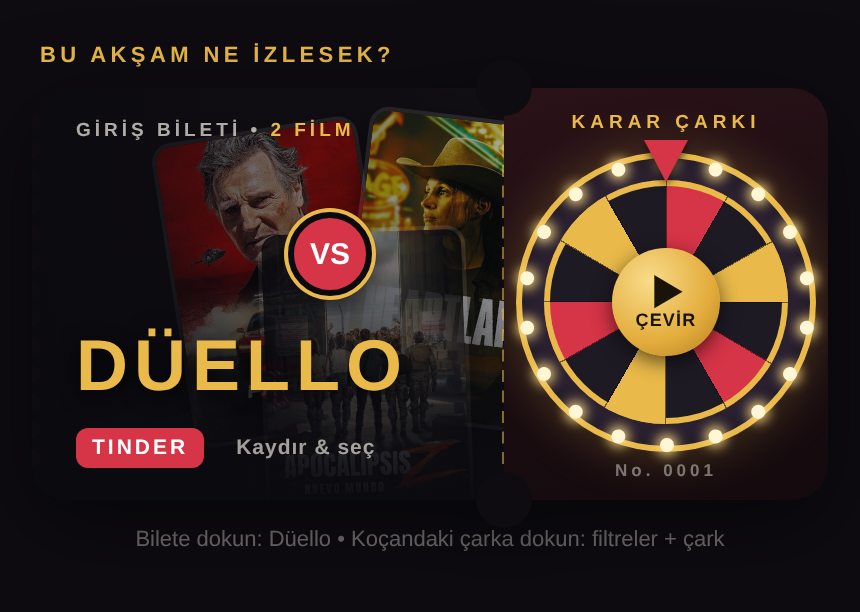
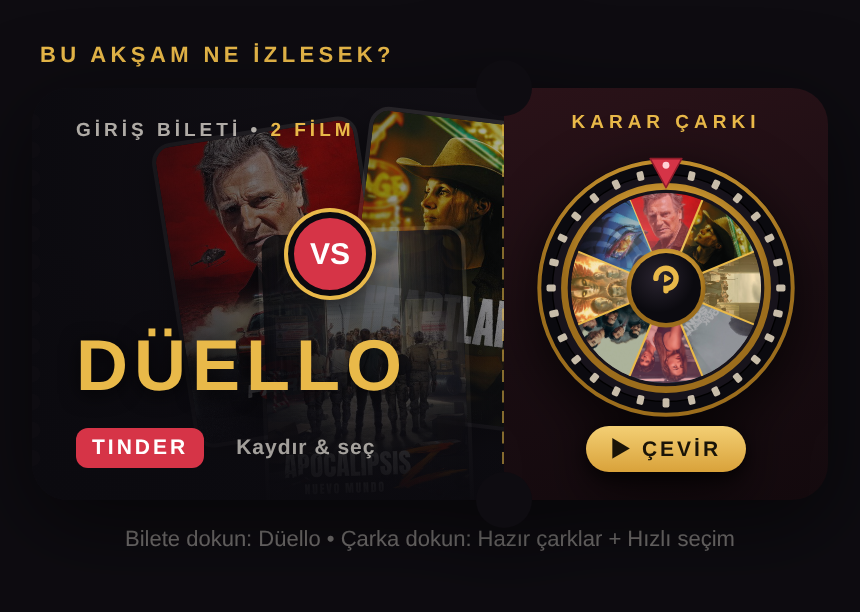
Bilet tasarımı önizlemesi v3: film şeridi halkalı afişli çark
Claude-Session: https://claude.ai/code/session_01Q1LBDkMis9fZfSetxmGZms

Changed region(s): [[0.5744, 0.2173, 0.9674, 0.7761], [0.1512, 0.8693, 0.8465, 0.9003]]

diff --git a/branding/ana-sayfa-bilet-tasarimi.html b/branding/ana-sayfa-bilet-tasarimi.html
@@ -35,6 +35,8 @@ body{width:430px;background:#0e0c11;font-family:Roboto,"Noto Sans",Arial,sans-se
  background:radial-gradient(circle at 35% 30%,#f8dc8a,#e3ac3c 60%,#b27e22);display:flex;flex-direction:column;align-items:center;justify-content:center;color:#1a1408;font-weight:900;font-size:9px;letter-spacing:.6px;box-shadow:0 3px 10px rgba(0,0,0,.6)}
 .hub b{font-size:17px;line-height:1;margin-left:2px}
 .needle{position:absolute;top:-6px;left:50%;transform:translateX(-50%);width:0;height:0;border-left:11px solid transparent;border-right:11px solid transparent;border-top:21px solid #d63447;z-index:4;filter:drop-shadow(0 2px 2px rgba(0,0,0,.7))}
+.wheelwrap2{position:absolute;left:50%;top:34px;transform:translateX(-50%);text-align:center;filter:drop-shadow(0 8px 14px rgba(0,0,0,.7))}
+.spin{margin:-10px auto 0;position:relative;display:inline-block;background:linear-gradient(180deg,#f3cf74,#d9a23a);color:#1a1408;font-weight:900;font-size:10.5px;letter-spacing:1.5px;padding:5px 12px;border-radius:999px;box-shadow:0 3px 8px rgba(0,0,0,.6)}
 .note{font-size:11px;color:rgba(245,239,230,.45);text-align:center;margin-top:14px}
 </style></head><body>
 <div class="cap">BU AKŞAM NE İZLESEK?</div>
@@ -57,15 +59,30 @@ body{width:430px;background:#0e0c11;font-family:Roboto,"Noto Sans",Arial,sans-se
   <div class="notch" style="top:-14px"></div><div class="notch" style="bottom:-14px"></div>
   <div class="stub">
     <div class="lab">KARAR ÇARKI</div>
-    <div class="wheelwrap">
-      <div class="rim"></div>
-      <div class="bulbs"><i style="transform:rotate(0deg) translateY(-71px)"></i><i style="transform:rotate(20deg) translateY(-71px)"></i><i style="transform:rotate(40deg) translateY(-71px)"></i><i style="transform:rotate(60deg) translateY(-71px)"></i><i style="transform:rotate(80deg) translateY(-71px)"></i><i style="transform:rotate(100deg) translateY(-71px)"></i><i style="transform:rotate(120deg) translateY(-71px)"></i><i style="transform:rotate(140deg) translateY(-71px)"></i><i style="transform:rotate(160deg) translateY(-71px)"></i><i style="transform:rotate(180deg) translateY(-71px)"></i><i style="transform:rotate(200deg) translateY(-71px)"></i><i style="transform:rotate(220deg) translateY(-71px)"></i><i style="transform:rotate(240deg) translateY(-71px)"></i><i style="transform:rotate(260deg) translateY(-71px)"></i><i style="transform:rotate(280deg) translateY(-71px)"></i><i style="transform:rotate(300deg) translateY(-71px)"></i><i style="transform:rotate(320deg) translateY(-71px)"></i><i style="transform:rotate(340deg) translateY(-71px)"></i></div>
-      <div class="wheel"></div>
-      <div class="needle"></div>
-      <div class="hub"><b>▶</b>ÇEVİR</div>
-    </div>
-    <div class="no">No. 0001</div>
+    <div class="wheelwrap2"><svg viewBox="0 0 200 200" width="132" height="132" xmlns="http://www.w3.org/2000/svg">
+<defs><clipPath id="w0"><path d="M100,100 L72.45,33.48 A72,72 0 0 1 127.55,33.48 Z"/></clipPath><clipPath id="w1"><path d="M100,100 L127.55,33.48 A72,72 0 0 1 166.52,72.45 Z"/></clipPath><clipPath id="w2"><path d="M100,100 L166.52,72.45 A72,72 0 0 1 166.52,127.55 Z"/></clipPath><clipPath id="w3"><path d="M100,100 L166.52,127.55 A72,72 0 0 1 127.55,166.52 Z"/></clipPath><clipPath id="w4"><path d="M100,100 L127.55,166.52 A72,72 0 0 1 72.45,166.52 Z"/></clipPath><clipPath id="w5"><path d="M100,100 L72.45,166.52 A72,72 0 0 1 33.48,127.55 Z"/></clipPath><clipPath id="w6"><path d="M100,100 L33.48,127.55 A72,72 0 0 1 33.48,72.45 Z"/></clipPath><clipPath id="w7"><path d="M100,100 L33.48,72.45 A72,72 0 0 1 72.45,33.48 Z"/></clipPath>
+<radialGradient id="bez" cx="50%" cy="40%"><stop offset="0" stop-color="#f6d98c"/><stop offset=".6" stop-color="#e3ac3c"/><stop offset="1" stop-color="#9c6d1c"/></radialGradient>
+<radialGradient id="hubg" cx="40%" cy="35%"><stop offset="0" stop-color="#2a2430"/><stop offset="1" stop-color="#0b0a0f"/></radialGradient>
+<radialGradient id="gloss" cx="35%" cy="25%" r="70%"><stop offset="0" stop-color="#fff" stop-opacity=".22"/><stop offset=".5" stop-color="#fff" stop-opacity="0"/></radialGradient>
+</defs>
+<circle cx="100" cy="100" r="98" fill="#0b0a0f"/>
+<circle cx="100" cy="100" r="96" fill="none" stroke="url(#bez)" stroke-width="3"/>
+<circle cx="100" cy="100" r="86" fill="#17131b" stroke="#000" stroke-width="1"/>
+<rect x="97.4" y="9.5" width="5.2" height="7" rx="1.4" fill="#e9dcc4" opacity=".85" transform="rotate(0.0 100 100)"/><rect x="97.4" y="9.5" width="5.2" height="7" rx="1.4" fill="#e9dcc4" opacity=".85" transform="rotate(12.857142857142858 100 100)"/><rect x="97.4" y="9.5" width="5.2" height="7" rx="1.4" fill="#e9dcc4" opacity=".85" transform="rotate(25.714285714285715 100 100)"/><rect x="97.4" y="9.5" width="5.2" height="7" rx="1.4" fill="#e9dcc4" opacity=".85" transform="rotate(38.57142857142857 100 100)"/><rect x="97.4" y="9.5" width="5.2" height="7" rx="1.4" fill="#e9dcc4" opacity=".85" transform="rotate(51.42857142857143 100 100)"/><rect x="97.4" y="9.5" width="5.2" height="7" rx="1.4" fill="#e9dcc4" opacity=".85" transform="rotate(64.28571428571429 100 100)"/><rect x="97.4" y="9.5" width="5.2" height="7" rx="1.4" fill="#e9dcc4" opacity=".85" transform="rotate(77.14285714285714 100 100)"/><rect x="97.4" y="9.5" width="5.2" height="7" rx="1.4" fill="#e9dcc4" opacity=".85" transform="rotate(90.0 100 100)"/><rect x="97.4" y="9.5" width="5.2" height="7" rx="1.4" fill="#e9dcc4" opacity=".85" transform="rotate(102.85714285714286 100 100)"/><rect x="97.4" y="9.5" width="5.2" height="7" rx="1.4" fill="#e9dcc4" opacity=".85" transform="rotate(115.71428571428571 100 100)"/><rect x="97.4" y="9.5" width="5.2" height="7" rx="1.4" fill="#e9dcc4" opacity=".85" transform="rotate(128.57142857142858 100 100)"/><rect x="97.4" y="9.5" width="5.2" height="7" rx="1.4" fill="#e9dcc4" opacity=".85" transform="rotate(141.42857142857142 100 100)"/><rect x="97.4" y="9.5" width="5.2" height="7" rx="1.4" fill="#e9dcc4" opacity=".85" transform="rotate(154.28571428571428 100 100)"/><rect x="97.4" y="9.5" width="5.2" height="7" rx="1.4" fill="#e9dcc4" opacity=".85" transform="rotate(167.14285714285714 100 100)"/><rect x="97.4" y="9.5" width="5.2" height="7" rx="1.4" fill="#e9dcc4" opacity=".85" transform="rotate(180.0 100 100)"/><rect x="97.4" y="9.5" width="5.2" height="7" rx="1.4" fill="#e9dcc4" opacity=".85" transform="rotate(192.85714285714286 100 100)"/><rect x="97.4" y="9.5" width="5.2" height="7" rx="1.4" fill="#e9dcc4" opacity=".85" transform="rotate(205.71428571428572 100 100)"/><rect x="97.4" y="9.5" width="5.2" height="7" rx="1.4" fill="#e9dcc4" opacity=".85" transform="rotate(218.57142857142858 100 100)"/><rect x="97.4" y="9.5" width="5.2" height="7" rx="1.4" fill="#e9dcc4" opacity=".85" transform="rotate(231.42857142857142 100 100)"/><rect x="97.4" y="9.5" width="5.2" height="7" rx="1.4" fill="#e9dcc4" opacity=".85" transform="rotate(244.28571428571428 100 100)"/><rect x="97.4" y="9.5" width="5.2" height="7" rx="1.4" fill="#e9dcc4" opacity=".85" transform="rotate(257.14285714285717 100 100)"/><rect x="97.4" y="9.5" width="5.2" height="7" rx="1.4" fill="#e9dcc4" opacity=".85" transform="rotate(270.0 100 100)"/><rect x="97.4" y="9.5" width="5.2" height="7" rx="1.4" fill="#e9dcc4" opacity=".85" transform="rotate(282.85714285714283 100 100)"/><rect x="97.4" y="9.5" width="5.2" height="7" rx="1.4" fill="#e9dcc4" opacity=".85" transform="rotate(295.7142857142857 100 100)"/><rect x="97.4" y="9.5" width="5.2" height="7" rx="1.4" fill="#e9dcc4" opacity=".85" transform="rotate(308.57142857142856 100 100)"/><rect x="97.4" y="9.5" width="5.2" height="7" rx="1.4" fill="#e9dcc4" opacity=".85" transform="rotate(321.42857142857144 100 100)"/><rect x="97.4" y="9.5" width="5.2" height="7" rx="1.4" fill="#e9dcc4" opacity=".85" transform="rotate(334.2857142857143 100 100)"/><rect x="97.4" y="9.5" width="5.2" height="7" rx="1.4" fill="#e9dcc4" opacity=".85" transform="rotate(347.14285714285717 100 100)"/>
+<circle cx="100" cy="100" r="77" fill="none" stroke="url(#bez)" stroke-width="5"/>
+<g clip-path="url(#w0)"><g transform="rotate(0.0 100 100)"><image href="p/l80bthReoL08m8oU74R4ZMxgnGZ.jpg" x="70" y="24" width="60" height="90" preserveAspectRatio="xMidYMid slice"/></g><path d="M100,100 L72.45,33.48 A72,72 0 0 1 127.55,33.48 Z" fill="#D63447" opacity="0.38"/></g><line x1="100" y1="100" x2="72.45" y2="33.48" stroke="#E9B949" stroke-width="1.6"/><g clip-path="url(#w1)"><g transform="rotate(45.0 100 100)"><image href="p/zhxlzxBlO1sWB1rPn7RmAoeQ2na.jpg" x="70" y="24" width="60" height="90" preserveAspectRatio="xMidYMid slice"/></g><path d="M100,100 L127.55,33.48 A72,72 0 0 1 166.52,72.45 Z" fill="#0B0A0F" opacity="0.3"/></g><line x1="100" y1="100" x2="127.55" y2="33.48" stroke="#E9B949" stroke-width="1.6"/><g clip-path="url(#w2)"><g transform="rotate(90.0 100 100)"><image href="p/pS2R3DEiucuizVkKP80qzdO97TE.jpg" x="70" y="24" width="60" height="90" preserveAspectRatio="xMidYMid slice"/></g><path d="M100,100 L166.52,72.45 A72,72 0 0 1 166.52,127.55 Z" fill="#E9B949" opacity="0.38"/></g><line x1="100" y1="100" x2="166.52" y2="72.45" stroke="#E9B949" stroke-width="1.6"/><g clip-path="url(#w3)"><g transform="rotate(135.0 100 100)"><image href="p/fqrxqGU4UQqYLumLLx7W0ewGl77.jpg" x="70" y="24" width="60" height="90" preserveAspectRatio="xMidYMid slice"/></g><path d="M100,100 L166.52,127.55 A72,72 0 0 1 127.55,166.52 Z" fill="#0B0A0F" opacity="0.3"/></g><line x1="100" y1="100" x2="166.52" y2="127.55" stroke="#E9B949" stroke-width="1.6"/><g clip-path="url(#w4)"><g transform="rotate(180.0 100 100)"><image href="p/wkIk82YOiFSay7qdFjihSE99CLy.jpg" x="70" y="24" width="60" height="90" preserveAspectRatio="xMidYMid slice"/></g><path d="M100,100 L127.55,166.52 A72,72 0 0 1 72.45,166.52 Z" fill="#D63447" opacity="0.38"/></g><line x1="100" y1="100" x2="127.55" y2="166.52" stroke="#E9B949" stroke-width="1.6"/><g clip-path="url(#w5)"><g transform="rotate(225.0 100 100)"><image href="p/sMPIiaOoyTr5o6s602KIVMJX3P2.jpg" x="70" y="24" width="60" height="90" preserveAspectRatio="xMidYMid slice"/></g><path d="M100,100 L72.45,166.52 A72,72 0 0 1 33.48,127.55 Z" fill="#0B0A0F" opacity="0.3"/></g><line x1="100" y1="100" x2="72.45" y2="166.52" stroke="#E9B949" stroke-width="1.6"/><g clip-path="url(#w6)"><g transform="rotate(270.0 100 100)"><image href="p/8kknNk7PbOcDUXynUZYZ7EHnKAA.jpg" x="70" y="24" width="60" height="90" preserveAspectRatio="xMidYMid slice"/></g><path d="M100,100 L33.48,127.55 A72,72 0 0 1 33.48,72.45 Z" fill="#E9B949" opacity="0.38"/></g><line x1="100" y1="100" x2="33.48" y2="127.55" stroke="#E9B949" stroke-width="1.6"/><g clip-path="url(#w7)"><g transform="rotate(315.0 100 100)"><image href="p/eIM28fkVIhPKkjOjfS01UAZXPM8.jpg" x="70" y="24" width="60" height="90" preserveAspectRatio="xMidYMid slice"/></g><path d="M100,100 L33.48,72.45 A72,72 0 0 1 72.45,33.48 Z" fill="#0B0A0F" opacity="0.3"/></g><line x1="100" y1="100" x2="33.48" y2="72.45" stroke="#E9B949" stroke-width="1.6"/>
+<circle cx="100" cy="100" r="72" fill="url(#gloss)"/>
+<circle cx="100" cy="100" r="30" fill="url(#bez)"/>
+<circle cx="100" cy="100" r="26.5" fill="url(#hubg)"/>
+<g transform="translate(100 99) scale(0.085) translate(-256 -270)">
+ <path d="M166,196 A90,90 0 1 1 256,286 L256,306" fill="none" stroke="#E9B949" stroke-width="48" stroke-linecap="round"/>
+ <path d="M296,196 L245,225.44 L245,166.56 Z" fill="#E9B949" stroke="#E9B949" stroke-width="12" stroke-linejoin="round"/>
+</g>
+<path d="M88,2 L112,2 L100,24 Z" fill="#D63447" stroke="#8f1c2a" stroke-width="1.2" stroke-linejoin="round"/>
+<circle cx="100" cy="7" r="2.6" fill="#ffd1d6"/>
+</svg><div class="spin">▶ ÇEVİR</div></div>
+    
   </div>
 </div>
-<div class="note">Bilete dokun: Düello • Koçandaki çarka dokun: filtreler + çark</div>
+<div class="note">Bilete dokun: Düello • Çarka dokun: Hazır çarklar + Hızlı seçim</div>
 </body></html>
